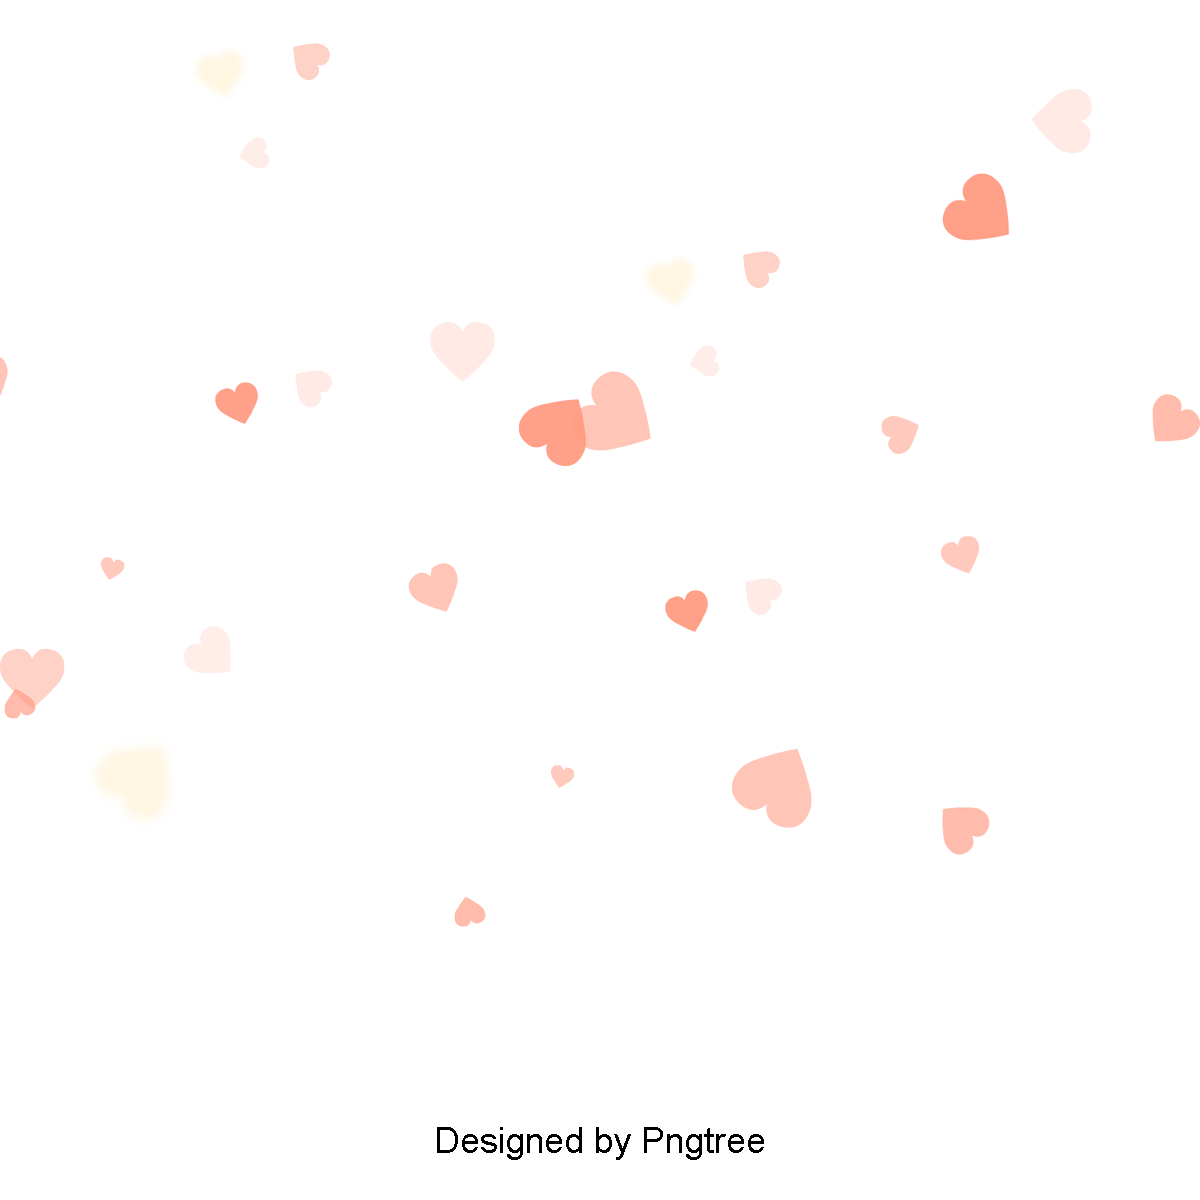
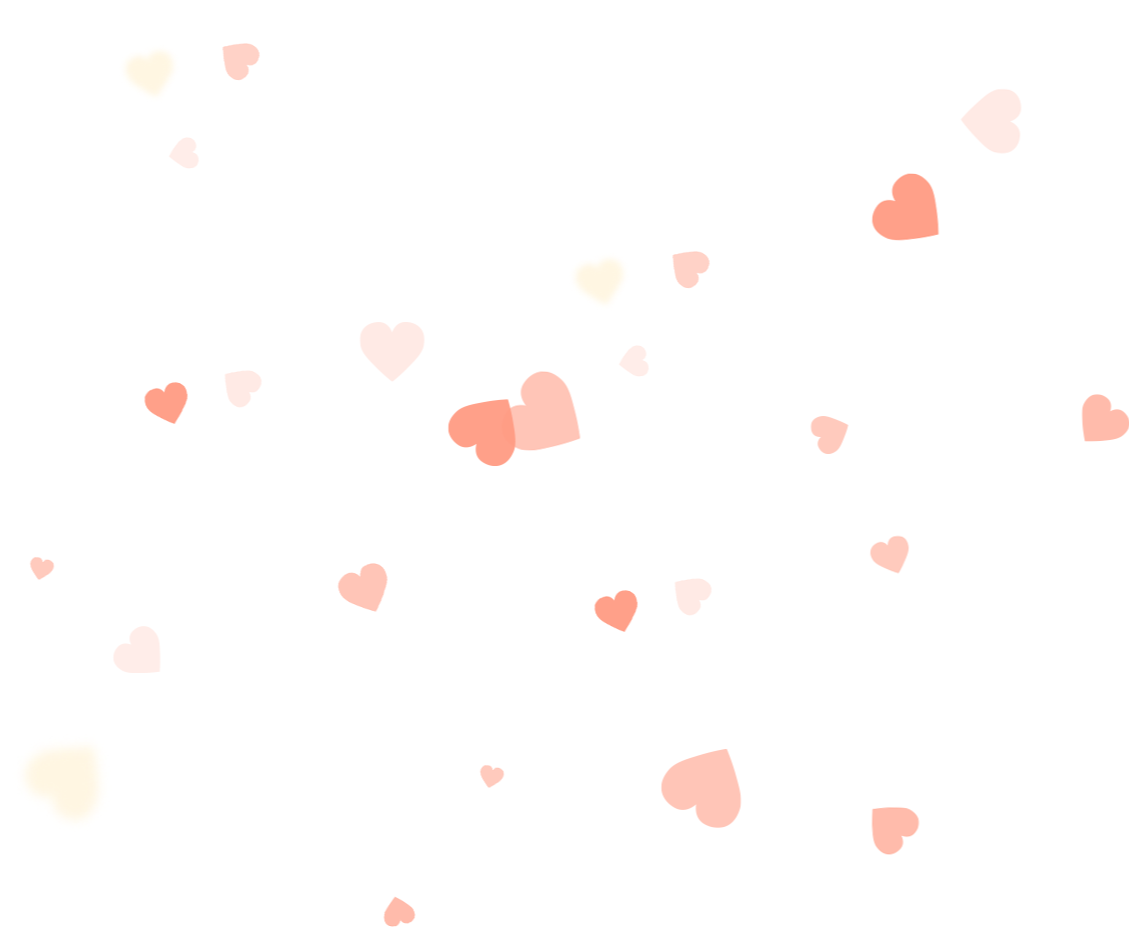
message

diff --git a/index.html b/index.html
@@ -9,7 +9,7 @@
 	<body>
 		<div class = "wrapper">
 			<section class = "fullscreen">
-				<div class = "bg"></div>
+				<div class = "bg rellax" data-rellax-speed = "7"></div>
 				<div class = "fullscreen_body">
 					<h1 class = "anim text title no-hide">hello there!</h1>
 					<h2 class = "anim text subtitle no-hide">you didn't see this coming:)</h2>
@@ -22,7 +22,7 @@
 				</div>
 			</section>
 		</div>
-		<script src = "https://cdnjs.cloudflare.com/ajax/libs/rellax/1.12.1/rellax.min.js"></script>
+		<script src="https://cdnjs.cloudflare.com/ajax/libs/rellax/1.12.1/rellax.min.js" integrity="sha512-f5HTYZYTDZelxS7LEQYv8ppMHTZ6JJWglzeQmr0CVTS70vJgaJiIO15ALqI7bhsracojbXkezUIL+35UXwwGrQ==" crossorigin="anonymous"></script>
 		<script src = "script.js"></script>
 	</body>
 </html>

diff --git a/style.css b/style.css
@@ -24,10 +24,14 @@ html, body{
 }
 
 .bg{
-	position: fixed;
+	position: absolute;
 	background: url('img/bg/bg__parallax.png') 0 0 / cover no-repeat;
+	max-width: 1100px;
 	width: 100%;
 	height: 100%;
+	top: 0;
+	left: 0;
+	margin: 0 100px;
 	z-index: 20;
 }
 

diff --git a/script.js b/script.js
@@ -41,3 +41,5 @@ if (animItems.length > 0)
     window.addEventListener('scroll', animOnScroll);
     animOnScroll();
 }
+
+let rellax = new Rellax('.rellax');
